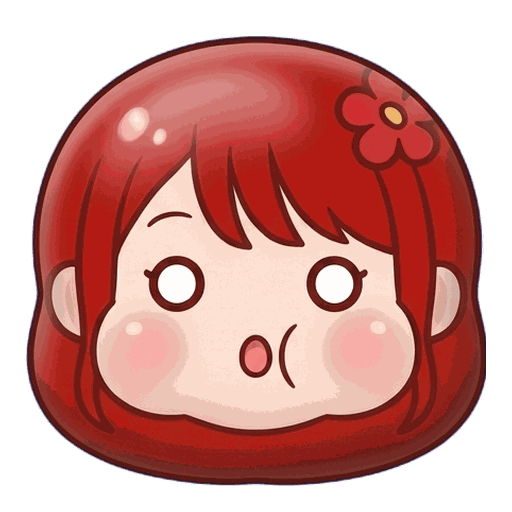
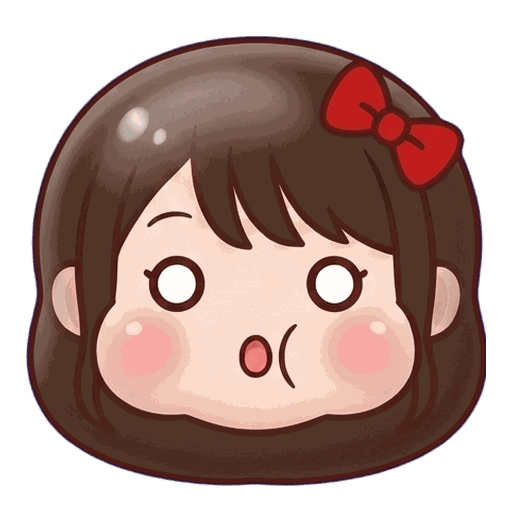
メンバー駒の髪を公式アー写の髪色にする
髪をメンバーカラーで塗っていたため本人に似ていなかった。
- 駒 25 枚（顔 20・ポーズ 5）を、アー写を添付して髪を写真から取らせる形で作り直す
- メンバーカラーは髪飾りと、コードで描く駒の縁（CONFIG.render.artRim）で出す
- gen_member_face.py に --pose を足し、画像パスの取り出しを直す
- og.png を撮り直す

diff --git a/design.html b/design.html
@@ -416,7 +416,7 @@
     ['M18', 'FEVER の文字・コンボの弾み', '大きく出て縮む（1.3 秒）／数字が 1.5 倍から戻る', 'css/base.css'],
     ['M19', '救済「ぽっぷボム」（爆発して混ぜ直す）', '1 試合 3 回。下を消して補充し、全体の色を混ぜ直す。得点・「!」なし、コンボは維持して猶予を数え直す。爆発の光と粒・揺れ・「ドン」と振動', ['rescue.count', 'rescue.physicsDepth', 'rescue.shake', 'render.boomDuration']],
     ['M20', 'フィーバーの残り時間', 'バーが縮み、秒数を表示。残り秒数以下で点滅と 1 秒ごとの音。終わると「FEVER おわり」', ['fever.duration', 'fever.warnAt']],
-    ['M22', '駒の見た目（スキン）と表情', '?skin=candy|members|sample。絵のあるスキンは 5 種類の絵を場面で差し替える：通常／なぞり中は笑顔（happy）／消えた瞬間ははじけ顔（pop）／フィーバー中はフィーバー顔（fever）／結果画面はポーズ（pose）。無い絵は代わりを使う（assets/skins/README.md）', ['skin.default', 'render.artRadius', 'render.candyRadius']],
+    ['M22', '駒の見た目（スキン）と表情', '?skin=candy|members|sample。絵のあるスキンは 5 種類の絵を場面で差し替える：通常／なぞり中は笑顔（happy）／消えた瞬間ははじけ顔（pop）／フィーバー中はフィーバー顔（fever）／結果画面はポーズ（pose）。無い絵は代わりを使う（assets/skins/README.md）。絵の駒は髪が本人の髪色なので、外周にメンバーカラーの縁を描く（artRim）', ['skin.default', 'render.artRadius', 'render.artRim', 'render.candyRadius']],
     ['M33', 'はじけの残像', '消えた駒をこの秒数だけはじけ顔で残し、この倍率まで膨らませてから紙吹雪にする', ['render.popGhost', 'render.popGhostScale']],
     ['M21', 'なぞり線（アウトライン）', '白い縁の太さ・内側の帯の太さ・脈打つ幅。淡い地のテーマでは白い縁の外に細い濃い線（--trace-edge）', ['render.traceOutline', 'render.traceInset', 'render.traceEdge', 'render.traceOutlinePulse', 'render.selectedScale']],
     ['M26', 'ラストスパートとボーナスタイム', '1 分モードの残り at 秒から、「!」1 個に要る個数が piecesPerBang になる（溜まった分は「進み」で持つので、切り替わった瞬間に増えない）。時間が 0 のときにフィーバー中なら、フィーバーが終わるまで試合が続く', ['lastSpurt.at', 'lastSpurt.piecesPerBang', 'fever.duration']],

diff --git a/js/render.js b/js/render.js
@@ -63,8 +63,9 @@ export function createRenderer(canvas, { config, colors, reducedMotion = false }
       const art = skin?.pieces[i];
       if (art?.image) {
         const px = R.artRadius * scale * dpr;
-        const face = (img) => (img ? drawArt(img, px) : null);
-        const normal = drawArt(art.image, px);
+        const rim = effectColor(c);
+        const face = (img) => (img ? drawArt(img, px, rim) : null);
+        const normal = drawArt(art.image, px, rim);
         const happy = face(art.happy);
         // Missing faces fall back so every piece always has something to show
         return { normal, happy, pop: face(art.pop) ?? happy ?? normal, fever: face(art.fever) ?? normal, radius: R.artRadius, stick: skin.stick };
@@ -123,13 +124,36 @@ export function createRenderer(canvas, { config, colors, reducedMotion = false }
 
   // Piece art is 512 × 512 with the character in a centered 460 box (assets/skins/README.md),
   // so the 460 box maps to the piece diameter.
-  function drawArt(img, radius) {
+  // The hair is the member's real hair color, so the member color is a rim around the silhouette:
+  // the art tinted to one flat color, stamped around a circle, with the art on top.
+  function drawArt(img, radius, rimColor) {
     const size = Math.ceil((radius * 2 * 512) / 460);
     const off = document.createElement('canvas');
     off.width = size;
     off.height = size;
     const g = off.getContext('2d');
     g.imageSmoothingQuality = 'high';
+    const rim = radius * R.artRim;
+    if (rimColor && rim > 0) {
+      // Shrink the art by the rim width so the rim stays inside the 460 box (the piece size is unchanged)
+      const k = 1 - R.artRim;
+      const pad = (size * (1 - k)) / 2;
+      const tint = document.createElement('canvas');
+      tint.width = size;
+      tint.height = size;
+      const t = tint.getContext('2d');
+      t.imageSmoothingQuality = 'high';
+      t.drawImage(img, pad, pad, size * k, size * k);
+      t.globalCompositeOperation = 'source-in';
+      t.fillStyle = rimColor;
+      t.fillRect(0, 0, size, size);
+      for (let i = 0; i < 16; i++) {
+        const a = (i * Math.PI) / 8;
+        g.drawImage(tint, Math.cos(a) * rim, Math.sin(a) * rim);
+      }
+      g.drawImage(img, pad, pad, size * k, size * k);
+      return off;
+    }
     g.drawImage(img, 0, 0, size, size);
     return off;
   }

diff --git a/scripts/og.html b/scripts/og.html
@@ -31,7 +31,7 @@
   .lead b { color: var(--accent); }
   .note { position: absolute; left: 64px; bottom: 22px; font-weight: 800; font-size: 17px; color: #8d5a78; padding: 4px 10px; background: rgba(255,243,248,.92); }
   .faces { position: absolute; right: 40px; top: 90px; width: 500px; height: 470px; }
-  .faces img { position: absolute; width: var(--s); filter: drop-shadow(0 8px 0 rgba(59,31,53,.18)); }
+  .faces img { position: absolute; width: var(--s); filter: drop-shadow(5px 0 0 var(--rim)) drop-shadow(-5px 0 0 var(--rim)) drop-shadow(0 5px 0 var(--rim)) drop-shadow(0 -5px 0 var(--rim)) drop-shadow(0 8px 0 rgba(59,31,53,.18)); } /* --rim: member color, as in js/render.js drawArt */
 </style>
 </head>
 <body>
@@ -44,11 +44,11 @@
   </div>
   <p class="note">非公式のファン制作です。運営・GMOペパボとは関係ありません。</p>
   <div class="faces">
-    <img src="../assets/skins/members/kurumi_happy.png" style="--s:210px; left:150px; top:0" alt="">
-    <img src="../assets/skins/members/mayu_happy.png" style="--s:185px; left:0; top:110px" alt="">
-    <img src="../assets/skins/members/mau_happy.png" style="--s:185px; left:310px; top:120px" alt="">
-    <img src="../assets/skins/members/ami_happy.png" style="--s:185px; left:60px; top:280px" alt="">
-    <img src="../assets/skins/members/mana_fever.png" style="--s:185px; left:250px; top:285px" alt="">
+    <img src="../assets/skins/members/kurumi_happy.png" style="--rim:#cc0000; --s:210px; left:150px; top:0" alt="">
+    <img src="../assets/skins/members/mayu_happy.png" style="--rim:#f5c400; --s:185px; left:0; top:110px" alt="">
+    <img src="../assets/skins/members/mau_happy.png" style="--rim:#7fd4e8; --s:185px; left:310px; top:120px" alt="">
+    <img src="../assets/skins/members/ami_happy.png" style="--rim:#2e9e5b; --s:185px; left:60px; top:280px" alt="">
+    <img src="../assets/skins/members/mana_fever.png" style="--rim:#ff7fbf; --s:185px; left:250px; top:285px" alt="">
   </div>
 </body>
 </html>

diff --git a/js/config.js b/js/config.js
@@ -128,6 +128,7 @@ export const CONFIG = {
     maxDpr: 2,
     candyRadius: 0.42, // drawn candy size relative to one cell / body diameter
     artRadius: 0.49, // piece art (skins with images) fills more of the cell than a candy
+    artRim: 0.09, // member-color rim around piece art, relative to the piece radius (0 = no rim)
     starRadius: 0.44, // star candy (CONFIG.special)
     stickLength: 0.66,
     selectedScale: 1.1,

diff --git a/scripts/gen_member_face.py b/scripts/gen_member_face.py
@@ -1,6 +1,9 @@
 """Generate one member's 4 head-only expressions (style A) with agy, save as raw/face_<key>.png.
 
-usage: python scripts/gen_member_face.py <key>   (repo root; needs raw/members_faces.png and raw/style_A_ref.png)
+usage: python scripts/gen_member_face.py <key>          (repo root)
+       python scripts/gen_member_face.py <key> --pose   (the result-screen pose → raw/pose_<key>.png)
+Needs raw/ref/members/<key>.jpg (official photo: the hair), raw/layout_<key>.png (the previous 2x2 sheet: layout
+and faces), raw/style_A_ref.png (rendering). --pose needs raw/poseref_<key>.png (the previous pose) instead.
 Then: python scripts/split_member_face.py <key> assets/skins/members
 Prompt, agy output and errors are kept in raw/agy/ (git-ignored). See docs/member_pieces_gemini.md.
 """
@@ -8,39 +11,69 @@ import json, os, re, subprocess, sys
 from pathlib import Path
 from PIL import Image
 
-MEMBERS = {  # key: (column in raw/members_faces.png, description, extra fix)
-    'kurumi': (1, 'red hair with a red flower hair ornament', ''),
-    'mayu': (2, 'yellow hair', ''),
-    'mau': (3, 'light blue twin-tail hair', ''),
-    'ami': (4, 'green hair with a light green ribbon', ''),
-    'mana': (5, 'white hair with a white frilled headdress',
-             '- She is white: give her the same bold dark brown outline as the style reference and clear light gray shading on the white hair and headdress, so she is clearly visible on a white background. No white glow or haze.\n'),
+# Hair comes from the photo (never described here). The member color goes on the hair accessory only;
+# the game draws a member-color rim around the piece (js/render.js drawArt).
+MEMBERS = {  # key: (member color for the hair accessory, extra fix)
+    'kurumi': ('red #cc0000', ''),
+    'mayu': ('yellow #f5c400', ''),
+    'mau': ('light blue #7fd4e8', ''),
+    'ami': ('green #2e9e5b', ''),
+    'mana': ('white #ffffff',
+             '- Her hair accessory is white: give it the same bold dark brown outline as the rest and clear light gray shading, so it is clearly visible on a white background. No white glow or haze.\n'),
 }
 
-PROMPT = """画像を 1 枚生成してください。添付は 2 枚です：raw/members_faces.png（デザインの見本）と raw/style_A_ref.png（質感の見本）。縦横比 1:1、最高解像度。
+HAIR = """- Hair: take the hair color, bangs, hairstyle and hair length from the photo. The hair color must be the natural hair color seen in the photo. Do NOT tint the hair with {color} or any other bright costume color.
+- Hair accessory: keep the kind and position of the hair accessory from the photo, simplified, and color it {color}. Make it clearly visible."""
+
+PROMPT = """画像を 1 枚生成してください。添付は 3 枚です：raw/ref/members/{key}.jpg（本人の写真）、raw/layout_{key}.png（構図と顔の見本）、raw/style_A_ref.png（質感の見本）。縦横比 1:1、最高解像度。
 画像の生成だけを行ってください。コマンドの実行・ファイルのコピーや変換・ほかのファイルの変更・git 操作はしないでください。
 最後に、生成された画像ファイルのフルパスだけを報告してください。
 
 --- prompt（一字も変えずに使う） ---
-Attachment 1 (members_faces.png) is a character sheet of 5 idols. Use ONLY the character in column {col} ({desc}) as the design reference: same face, eye color, hair color, bangs, hairstyle and hair accessory.
-Attachment 2 (style_A_ref.png) is the style reference: a HEAD-ONLY game piece with a smooth soft vinyl cushion look, soft top-left highlight, gentle shading at the bottom, a small shiny spot on the hair, bold dark brown outline. Match this style, shape and rendering exactly, but with the column {col} character.
-Draw a 2 x 2 grid of 4 pieces of this character, one expression per cell:
+Attachment 1 ({key}.jpg) is an official photo of an idol. Use it ONLY for her hair and hair accessory.
+Attachment 2 (layout_{key}.png) is the current sheet of her game pieces: a 2 x 2 grid of HEAD-ONLY pieces. Keep its layout, piece shape, size, simple cartoon faces and the 4 expressions. Its hair color is wrong and must be replaced.
+Attachment 3 (style_A_ref.png) is the style reference: a HEAD-ONLY game piece with a smooth soft vinyl cushion look, soft top-left highlight, gentle shading at the bottom, a small shiny spot on the hair, bold dark brown outline. Match this rendering exactly.
+Redraw attachment 2 with these changes:
+""" + HAIR + """
+- Eyes: a natural dark brown eye color (not {color}), except the fever cell.
+- The face stays a simple kawaii cartoon face. Do not draw a realistic face or copy facial details from the photo.
+The 2 x 2 grid, one expression per cell:
 - Top left, normal: glossy eyes with a white highlight, a tiny calm smile, soft pink blush.
 - Top right, happy: eyes closed in happy upward arcs, a small open joyful smile, slightly stronger blush.
 - Bottom left, surprised pop: wide round eyes, small round "O" mouth, puffed cheeks, the head slightly inflated like it is about to burst.
 - Bottom right, fever: sparkling yellow star-shaped eyes, a big wide-open excited smile, strong blush.
-Every piece is HEAD ONLY: no body, no neck, no arms. One plump round shape (a slightly squashed circle, wider than tall), the hair forming the round silhouette, hair accessories small and inside the silhouette. The only difference between the 4 cells is the face; hair, shape, size and lighting are identical.
+Every piece is HEAD ONLY: no body, no neck, no arms. One plump round shape (a slightly squashed circle, wider than tall), the hair forming the round silhouette, hair accessories inside the silhouette. The only difference between the 4 cells is the face; hair, shape, size and lighting are identical.
 {fix}Each piece is centered in its own equal-size cell with a wide empty gap, never touching another piece or the image edges.
 Background: one solid flat magenta #FF00FF, perfectly uniform. No gradient, shadow or glow. Do not use magenta or hot pink on the character.
 Absolutely no text, letters, numbers, symbols or watermark. Square 1:1 image at the highest resolution.
 """
 
+POSE_PROMPT = """画像を 1 枚生成してください。添付は 2 枚です：raw/ref/members/{key}.jpg（本人の写真）と raw/poseref_{key}.png（今の絵）。縦横比 1:1、最高解像度。
+画像の生成だけを行ってください。コマンドの実行・ファイルのコピーや変換・ほかのファイルの変更・git 操作はしないでください。
+最後に、生成された画像ファイルのフルパスだけを報告してください。
+
+--- prompt（一字も変えずに使う） ---
+Attachment 1 ({key}.jpg) is an official photo of an idol. Use it ONLY for her hair and hair accessory.
+Attachment 2 (poseref_{key}.png) is the current drawing of her as a small mascot character jumping for joy. Its hair color is wrong and must be replaced.
+Redraw attachment 2 as one character, alone and centered, with exactly the same pose, body shape, outfit, outfit colors, simple cartoon face, bold dark brown outline and shading. Change only this:
+""" + HAIR + """
+{fix}Keep the raised arms fully inside the image with a wide margin on every side.
+Background: one solid flat magenta #FF00FF, perfectly uniform. No gradient, floor, shadow, glow, sparkles or motion lines. Do not use magenta or hot pink on the character.
+Absolutely no text, letters, numbers, symbols or watermark. Square 1:1 image at the highest resolution.
+"""
+
 key = sys.argv[1]
-col, desc, fix = MEMBERS[key]
+pose = '--pose' in sys.argv[2:]
+kind = 'pose' if pose else 'face'
+color, fix = MEMBERS[key]
 out_dir = Path('raw/agy')
 out_dir.mkdir(parents=True, exist_ok=True)
-prompt = PROMPT.format(col=col, desc=desc, fix=fix)
-(out_dir / f'{key}_prompt.txt').write_text(prompt, encoding='utf-8')
+prompt = (POSE_PROMPT if pose else PROMPT).format(key=key, color=color, fix=fix)
+needs = [f'raw/ref/members/{key}.jpg', f'raw/poseref_{key}.png'] if pose else [f'raw/ref/members/{key}.jpg', f'raw/layout_{key}.png', 'raw/style_A_ref.png']
+missing = [p for p in needs if not Path(p).exists()]
+if missing:
+    sys.exit(f'{key}: missing {missing}')
+(out_dir / f'{key}_{kind}_prompt.txt').write_text(prompt, encoding='utf-8')
 
 if os.environ.get('GEMINI_API_KEY') or os.environ.get('ANTIGRAVITY_API_KEY'):
     sys.exit('API key is set: abort (would bill the API key instead of the subscription)')
@@ -48,18 +81,18 @@ if os.environ.get('GEMINI_API_KEY') or os.environ.get('ANTIGRAVITY_API_KEY'):
 repo = str(Path.cwd())
 r = subprocess.run(['agy', '--output-format', 'json', '--print-timeout', '280s', '--add-dir', repo, '-p', prompt],
                    capture_output=True, text=True, encoding='utf-8', shell=False)
-(out_dir / f'{key}_out.json').write_text(r.stdout, encoding='utf-8')
-(out_dir / f'{key}_err.txt').write_text(r.stderr, encoding='utf-8')
+(out_dir / f'{key}_{kind}_out.json').write_text(r.stdout, encoding='utf-8')
+(out_dir / f'{key}_{kind}_err.txt').write_text(r.stderr, encoding='utf-8')
 try:
     res = json.loads(r.stdout)
 except json.JSONDecodeError:
     sys.exit(f'{key}: no JSON (exit {r.returncode}): {r.stderr[-500:]}')
 if res.get('status') != 'SUCCESS':
     sys.exit(f'{key}: status {res.get("status")}: {res.get("response", "")[:500]}')
-m = re.search(r'[A-Za-z]:\\[^\s"]+\.(?:jpg|jpeg|png)', res.get('response', ''))
+m = re.search(r'[A-Za-z]:\\[^\s"\]()]+\.(?:jpg|jpeg|png)', res.get('response', ''))
 if not m or not Path(m.group(0)).exists():
     sys.exit(f'{key}: image path not found in response: {res.get("response", "")[:500]}')
 img = Image.open(m.group(0))
-dst = Path('raw') / f'face_{key}.png'
+dst = Path('raw') / f'{kind}_{key}.png'
 img.convert('RGB').save(dst)
 print(f'{key}: {img.size} → {dst}  (conversation {res["conversation_id"]})')

diff --git a/docs/member_pieces_gemini.md b/docs/member_pieces_gemini.md
@@ -23,8 +23,11 @@
 
 オーナーの判断：体があると跳ねたときに可愛くないので、**盤面の駒は顔だけ**にする。質感はくるみ 1 人で 6 案（ぷっくり 3D／ぬいぐるみ／缶バッジ／飴玉／マシュマロ大福／粘土）を試作して比べ、**A ぷっくり 3D** に決めた（盤面の実寸で顔と色が一番読める、つぶれても可愛い）。**結果画面のポーズ（`*_pose.png`）は全身のまま**。
 
+- **髪は公式アー写の髪色にする**（2026-10-01〜）。はじめは髪をメンバーカラーで塗っていたが、本人に似ていなかった。メンバーカラーは髪飾りの色と、ゲームがコードで描く駒の縁（`js/render.js` の `drawArt`、太さは `CONFIG.render.artRim`）で出す
+- 髪の特徴はプロンプトに言葉で書かず、写真（`raw/ref/members/<key>.jpg`）を添付して Gemini に取らせる。構図と表情の見本は前の版の 2×2（`raw/layout_<key>.png`）
+- ポーズも同じ考えで、前の絵（`raw/poseref_<key>.png`）と写真を添付して髪だけ直す：`python scripts/gen_member_face.py kurumi --pose` → `python scripts/prepare_piece.py raw/pose_kurumi.png --grid 1x1 --members kurumi --rows pose --out assets/skins/members`
 - 質感の見本：`raw/style_A_ref.png`（試作のくるみ。git の対象外）
-- 1 人 1 回、2×2（左上 通常・右上 笑顔・左下 はじけ・右下 フィーバー）、1:1、マゼンタ背景で Antigravity（`agy -p`）に生成させる。プロンプトの本文は `scripts/gen_member_face.py` の `PROMPT`、メンバーごとの違い（列番号・髪の説明・まなの輪郭の指定）は `MEMBERS`
+- 1 人 1 回、2×2（左上 通常・右上 笑顔・左下 はじけ・右下 フィーバー）、1:1、マゼンタ背景で Antigravity（`agy -p`）に生成させる。プロンプトの本文は `scripts/gen_member_face.py` の `PROMPT`、メンバーごとの違い（髪飾りの色・まなの輪郭の指定）は `MEMBERS`
 - 一括（20 体を 1 枚）にしないのは、体つきの版で細部が崩れ、まなだけ作り直しになったため
 
 ```powershell

diff --git a/docs/handoff.md b/docs/handoff.md
@@ -90,7 +90,7 @@
 | 駒の見た目 | スキンで切り替え（飴／メンバー）。プレイヤーがタイトル画面の T8 で選べる。メンバーの絵が無いうちは「準備中」 |
 | メンバーの絵 | Gemini で公式写真からデフォルメを作る。**オーナーが運営に AI 作画の許諾を確認済み**（2026-09-14 申告）。プロンプトは [`member_pieces_gemini.md`](member_pieces_gemini.md) |
 | UI | `lollpop_docs/design.md` には従わない。**A キャンディポップ と E+ かわいいスタイリッシュ の 2 テーマ**をタイトル画面の T9 で切り替える。**E+ から実装**（実装済み）、A は次。E+ の色はラフのままで OK が出た |
-| メンバー駒の絵柄 | **盤面の駒は顔だけ・ぷっくり 3D**（2026-09-15 午後。体があると跳ねたときに可愛くない、とオーナー）。6 案の試作から A を選んだ。髪はメンバーカラー、フィーバー顔は全員星の目。**結果画面のポーズは全身のまま**。手順は [`member_pieces_gemini.md`](member_pieces_gemini.md) の「今の駒」 |
+| メンバー駒の絵柄 | **盤面の駒は顔だけ・ぷっくり 3D**（2026-09-15 午後。体があると跳ねたときに可愛くない、とオーナー）。6 案の試作から A を選んだ。**髪は公式アー写の髪色**（2026-10-01。メンバーカラーの髪だと本人に似ていない、とオーナー）。メンバーカラーは髪飾りと、コードで描く駒の縁（`CONFIG.render.artRim`）で出す。フィーバー顔は全員星の目。**結果画面のポーズは全身のまま**。手順は [`member_pieces_gemini.md`](member_pieces_gemini.md) の「今の駒」 |
 | 参照写真の出典 | `lollpop_docs/work/game_assets/ref/members*.jpg` は**公式アー写**（2026-09-15 オーナー回答） |
 | BGM | **合成のオリジナル曲**（Web Audio でコードから鳴らす）に決定（2026-09-15）。requirements.md の「やらないこと」から外す |
 | リポジトリ | `devhitoshi/lollpop_puzzle`（公開） |
